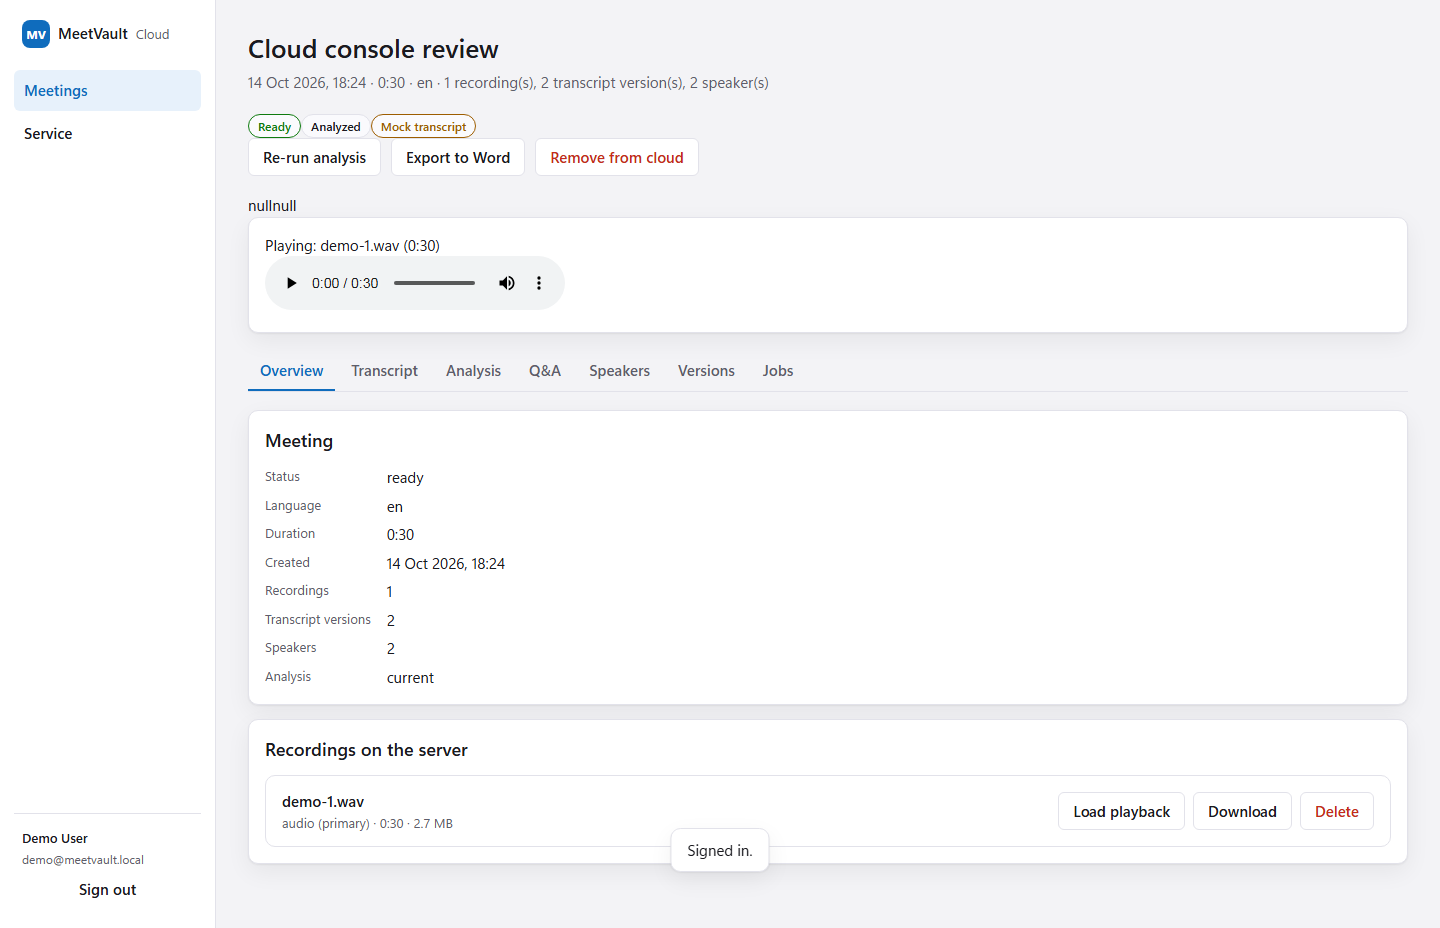
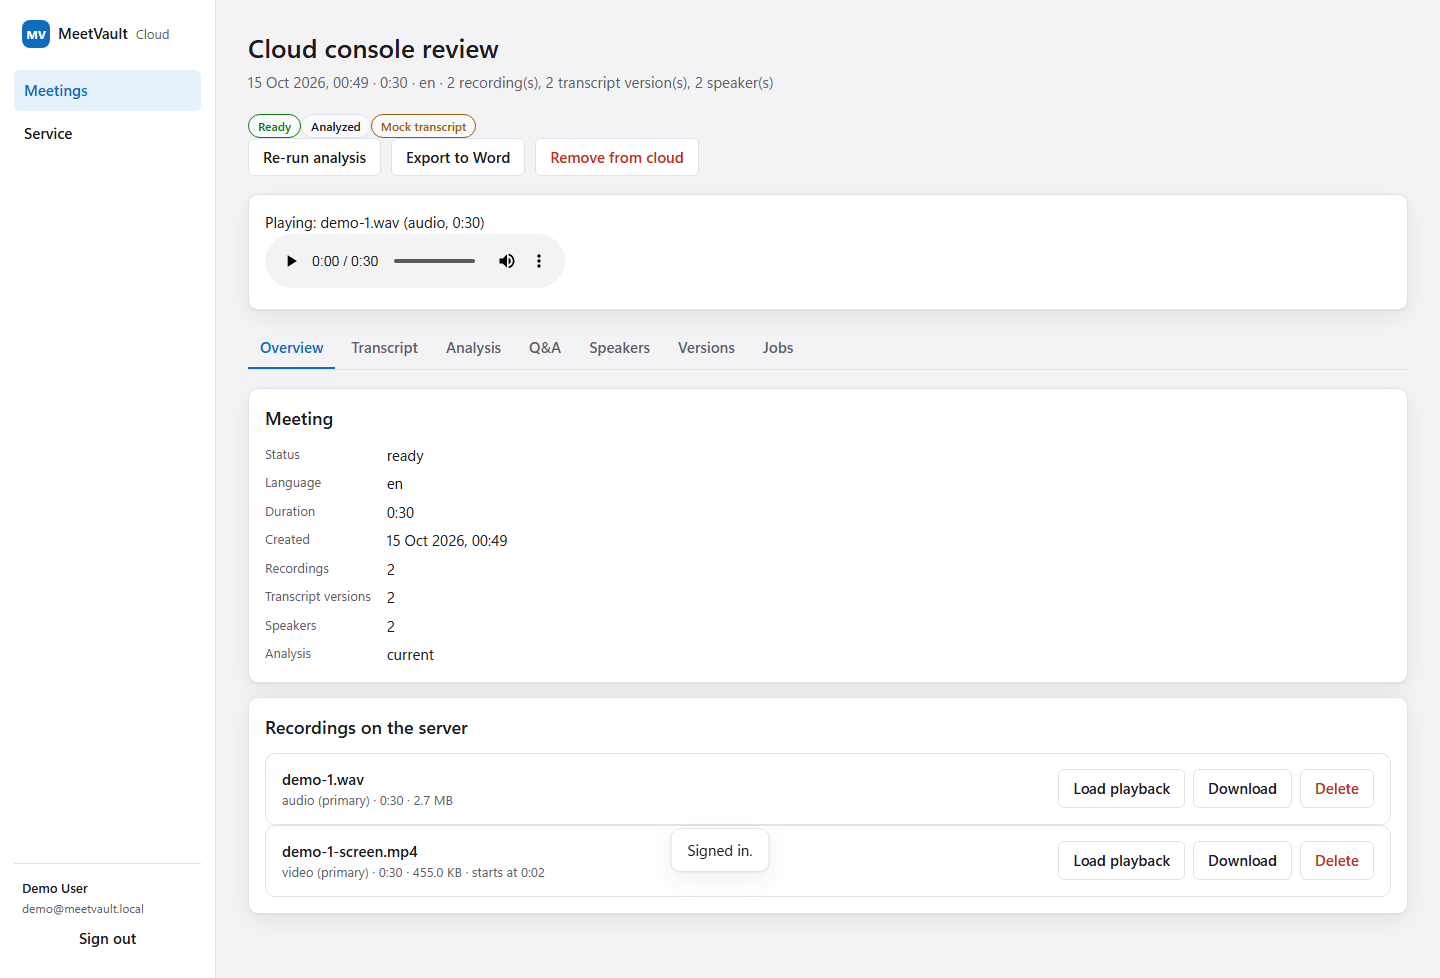
docs(web): video-track coverage, the two new findings and the 14th screenshot

diff --git a/backend/docs/web-report/REPORT.md b/backend/docs/web-report/REPORT.md
@@ -32,7 +32,7 @@ there is no CORS, no second container and no JavaScript build step.
 | 14 | Speakers rename / merge / delete | Speakers tab | `…/speakers`, `PATCH /v1/speakers/{id}`, `…/merge` | `11-speakers` |
 | 15 | Transcript versions activate / delete | Versions tab | `…/transcripts`, `POST …/activate`, `DELETE` | `12-versions` |
 | 16 | Jobs watch (SSE) + cancel | Jobs tab | `GET /v1/jobs/{id}/events`, `POST …/cancel` | `09-jobs`, `93-jobs-cancel` |
-| 17 | Media list, playback, download, delete | Overview tab | `GET /v1/media/{id}`, `…/info`, `DELETE` | `04-detail`, `91-media-delete` |
+| 17 | Media list, playback, download, delete | Overview tab: **both** tracks (audio + screen video), kind and timeline offset shown, player swaps to `<video>` | `GET /v1/media/{id}`, `…/info`, `DELETE` | `04-detail`, `91-media-delete` |
 | 18 | Export to Word | Export button (real `.docx` download) | `GET …/export.docx` | `08-export` |
 | 19 | Mock output never disguised | per-object badges: "Mock transcript" / "Mock analysis" | `meeting.is_mock`, `run.is_mock` | `04-detail`, `06-analysis` |
 | 20 | Stale analysis surfaced, not hidden | "Out of date" banner (genuinely stale kinds only) | `status.stale_kinds` minus `fresh_kinds` | `04-detail`, `12-versions` |
@@ -62,7 +62,8 @@ Production is the same image: `docker compose up -d --build` (or the deployed st
 | `screens/01-sign-in.png` | The sign-in screen (the console is account-gated; every `/v1` call carries the session token) |
 | `screens/02-meetings-list.png` | The cloud list: three meetings, status pills, "Analyzed" badge, search + status filter + paging, range "1–3 of 3" |
 | `screens/03-remove-confirm.png` | The "Remove from cloud?" confirmation (states that the server copy goes, the local recording does not) |
-| `screens/04-meeting-overview.png` | Meeting detail: facts (status/language/duration/created/counts), "Mock transcript" badge, the recording with playback/download/delete |
+| `screens/04-meeting-overview.png` | Meeting detail: facts (status/language/duration/created/counts), "Mock transcript" badge, both recordings (audio + screen video, with its `starts at 0:02` offset) with playback/download/delete |
+| `screens/04b-screen-video.png` | The screen-recording track loaded into the shared player: the element has swapped to `<video>` and renders a real frame, caption "Playing: demo-1-screen.mp4 (video, 0:30)" |
 | `screens/05-transcript.png` | Transcript tab: speaker-labelled, timed rows, click-to-seek, copy-text, the shared player |
 | `screens/06-analysis.png` | Analysis tab: mock badge, run provenance, summary + bullets, agenda, sections, decisions, action items |
 | `screens/07-qa.png` | Q&A tab: a stored answer with numbered citations that seek the recording, plus the ask box |
@@ -92,7 +93,7 @@ $ cd backend/web && node --test "tests/*.test.mjs"
 ℹ fail 0
 
 $ cd backend/web && MVB_DEMO_URL=http://127.0.0.1:8099 npx playwright test --reporter=line
-54 passed (54.8s)                                     (two projects: narrow 420 px, then desktop 1440 px)
+57 passed (59.8s)                                     (two projects: narrow 420 px, then desktop 1440 px)
 ```
 
 - **Zero console errors** is asserted by every browser spec (`fixtures.js` collects
@@ -101,8 +102,10 @@ $ cd backend/web && MVB_DEMO_URL=http://127.0.0.1:8099 npx playwright test --rep
   `docx.Document(...)` → `paragraphs: 16`, containing the title, `00:30 long`, the mock-provenance
   note, the summary and its bullets (35 619 bytes).
 - **The console is exercised against a real server, real worker and real media**: the demo stack
-  runs `uvicorn` + `python -m mvb.jobs.worker` with `MVB_*_=mock` providers and 30 s/20 s/12 s WAVs
-  generated by ffmpeg; the Q&A spec asks a new question and waits for the worker's answer to land.
+  runs `uvicorn` + `python -m mvb.jobs.worker` with `MVB_*_=mock`
+  providers and 30 s/20 s/12 s WAVs **plus real H.264 MP4 screen tracks** (ffmpeg `testsrc`, uploaded
+  as `kind=video&start_offset_ms=2000`) generated by the seed; the Q&A spec asks a new question and
+  waits for the worker's answer to land.
 - **`/v1` is unchanged**: `/openapi.json`, `/docs`, `/healthz`, `/readyz` and the 401-without-token
   behaviour are asserted by `tests/integration/test_web_app.py` (19 tests).
 
@@ -170,7 +173,19 @@ $ cd backend/web && MVB_DEMO_URL=http://127.0.0.1:8099 npx playwright test --rep
 10. **Deleting the recording that was playing left a dead player.** The blob was revoked before the
     "is this the loaded asset" comparison, so the element kept a revoked URL. Fixed by capturing the
     flag first, then re-resolving the player source.
-11. **Documentation drift (reported, not changed):** `backend/README.md` §Status still says
+11. **The shared player was audio-only, so a screen recording could not be watched.** The player was
+    a hardcoded `<audio>` element, so loading the video track played its audio and showed nothing —
+    and nothing failed loudly. Found when the owner asked whether video had been tested at all.
+    Fixed: `loadAsset(asset)` swaps the element to `<video>` for a video asset and updates the
+    caption; the seed now uploads a real MP4 per meeting and `04-detail` asserts two rows, the
+    `starts at 0:02` offset, the `<video>` element with a real duration, and a video download
+    (`screens/04b-screen-video.png` shows a rendered frame).
+12. **Two conditional header elements rendered as the literal text "nullnull".** A conditional child
+    (`cond ? el(...) : null`) passed to the raw DOM `append()` is stringified, not skipped, unlike
+    the `el()` helper. Fixed with `appendAll()` in `lib/dom.js`, and the a11y spec now walks every
+    text node on the list and all seven tabs and fails on a node whose whole content is
+    "null"/"undefined" — proven to bite (the mutant fails, the fix passes).
+13. **Documentation drift (reported, not changed):** `backend/README.md` §Status still says
     "157 tests pass" (the suite is 236) and `docs/ACCEPTANCE.md`/`COVERAGE` rows predate the web
     console. Out of scope here; worth a docs sweep.
 

diff --git a/backend/docs/progress/progress_supersanta/PROGRESS_2026-10-15.md b/backend/docs/progress/progress_supersanta/PROGRESS_2026-10-15.md
@@ -22,11 +22,23 @@ Contributor: supersanta (Hermes Agent). Scope: the management web console served
 - `ruff check src tests` → `All checks passed!`; `ruff format --check src tests` → `110 files
   already formatted`.
 - `node --test "tests/*.test.mjs"` (backend/web) → `tests 31, pass 31, fail 0`.
-- `npx playwright test --reporter=line` → `54 passed (55.0s)` on a fresh seed, two projects
-  (narrow 420 px first, then desktop 1440 px), zero console errors asserted per spec.
+- `npx playwright test --reporter=line` → green on a fresh seed, two projects (narrow 420 px first,
+  then desktop 1440 px), zero console errors asserted per spec.
 - Word export verified outside the browser: `docx.Document(...)` → 16 paragraphs, 35 619 bytes.
 - Live smoke: `healthz=200`, `/`=200, `/assets/app.js`=200, `/docs`=200, `/v1/meetings` without a
   token = 401.
+
+### Video coverage added after the owner asked
+
+The first pass seeded **audio only**, so the whole video path was untested. Now the seed uploads a
+real H.264 MP4 (`ffmpeg testsrc`) per meeting as `kind=video&start_offset_ms=2000`, and the specs
+assert two recording rows with their kinds, the rendered `starts at 0:02` offset, the shared player
+swapping to a `<video>` element with a real duration, and a video download. That immediately
+exposed two more defects: the player was hardcoded `<audio>` (a screen recording could not be
+watched at all) and the caption never followed a track switch; and a conditional child passed to the
+raw DOM `append()` rendered the literal text `nullnull` on every detail header (fixed with
+`appendAll()` + a stray-null text-node net that was proven to bite). `screens/04b-screen-video.png`
+shows the video frame rendering.
 
 ### Defects found by the tests and fixed (each with a regression test)
 
